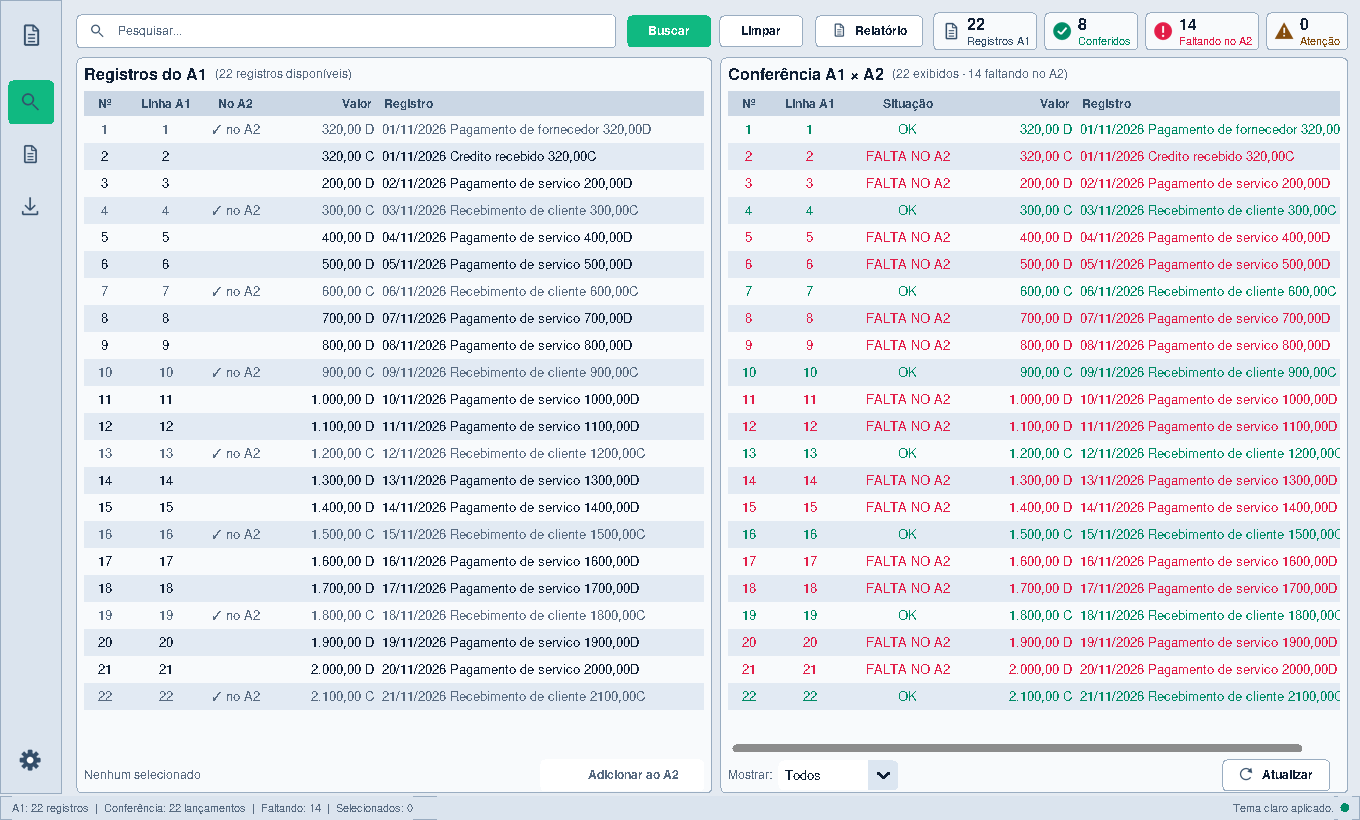
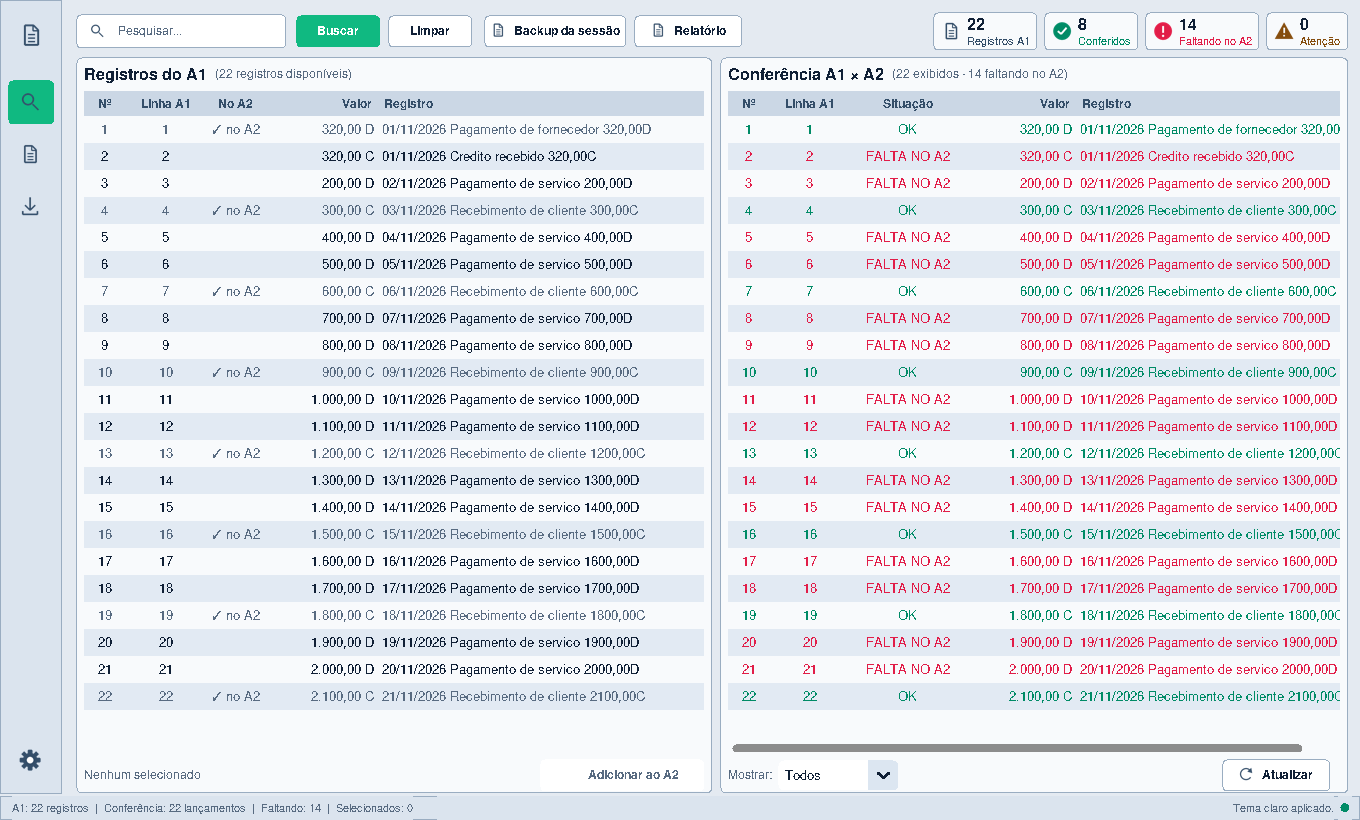
feat: cria backup da sessao com registros e marcacoes

Changed region(s): [[0.1853, 0.0, 0.6794, 0.061]]

diff --git a/main.py b/main.py
@@ -10,6 +10,7 @@ from urllib.parse import urlsplit, parse_qs
 import queue
 import os
 import re
+import shutil
 import socket
 import sys
 import threading
@@ -21,8 +22,8 @@ from datetime import datetime
 from decimal import Decimal
 from html import escape
 from pathlib import Path
-from tempfile import NamedTemporaryFile
-from tkinter import ttk, messagebox
+from tempfile import NamedTemporaryFile, TemporaryDirectory
+from tkinter import ttk, messagebox, simpledialog
 from tkinter import font as tkfont
 from PIL import Image, ImageDraw, ImageFilter, ImageOps, ImageStat, ImageTk
 try:
@@ -1327,7 +1328,8 @@ class App(ctk.CTk):
             kw = dict(fg_color=c("campo"), hover_color=c("campo_hover"),
                       text_color=c("texto"))
         simbolo = {"Aparência": "aparencia", "Adicionar ao A2": "adicionar",
-                   "Atualizar": "atualizar", "Relatório": "arquivo"}.get(texto)
+                   "Atualizar": "atualizar", "Relatório": "arquivo",
+                   "Backup da sessão": "arquivo"}.get(texto)
         imagem = icone(simbolo, "#ffffff" if primario else "cabecalho", 16) if simbolo else None
         b = ctk.CTkButton(pai, text=texto, image=imagem, command=comando, width=largura, height=altura,
                           corner_radius=5, border_width=0 if primario else 1, border_color=c("borda"),
@@ -1894,15 +1896,15 @@ class App(ctk.CTk):
         topo = ctk.CTkFrame(self.aba_busca, fg_color="transparent")
         topo.pack(fill="x", pady=(2, 6))
         topo.grid_columnconfigure(0, weight=1)
-        pesquisa = ctk.CTkFrame(topo, fg_color="transparent")
-        pesquisa.grid(row=0, column=0, sticky="ew", padx=(0, 10))
+        pesquisa = self.barra_pesquisa = ctk.CTkFrame(topo, fg_color="transparent")
+        pesquisa.grid(row=0, column=0, sticky="w", padx=(0, 10))
         pesquisa.grid_columnconfigure(0, weight=1)
         caixa = ctk.CTkFrame(pesquisa, height=34, fg_color=c("campo"), corner_radius=5,
                               border_width=1, border_color=c("borda"))
         caixa.grid(row=0, column=0, sticky="ew")
         ctk.CTkLabel(caixa, text="", image=icone("busca", tamanho=16), width=30, height=32).pack(side="left", padx=(6, 0))
         self.busca_var = tk.StringVar()
-        entrada = self.campo(caixa, self.busca_var, "Pesquisar...", largura=110)
+        entrada = self.campo(caixa, self.busca_var, "Pesquisar...", largura=170)
         self.entrada_busca = entrada
         entrada.configure(height=32)
         entrada.pack(side="left", fill="x", expand=True, padx=(0, 4), pady=1)
@@ -1915,9 +1917,12 @@ class App(ctk.CTk):
         self.busca_var.trace_add("write", self.atualizar_dica_busca)
         self.botao(pesquisa, "Buscar", self.buscar_a1, primario=True, largura=84, altura=32).grid(row=0, column=1, padx=(10, 8))
         self.botao(pesquisa, "Limpar", self.mostrar_todos, largura=84, altura=32).grid(row=0, column=2)
+        self.botao_backup = self.botao(
+            pesquisa, "Backup da sessão", self.criar_backup_sessao, largura=142, altura=32)
+        self.botao_backup.grid(row=0, column=3, padx=(12, 0))
         self.botao_relatorio = self.botao(pesquisa, "Relatório", self.imprimir_relatorio, largura=108, altura=32)
-        self.botao_relatorio.grid(row=0, column=3, padx=(12, 0))
-        indicadores = ctk.CTkFrame(topo, fg_color="transparent")
+        self.botao_relatorio.grid(row=0, column=4, padx=(8, 0))
+        indicadores = self.barra_indicadores = ctk.CTkFrame(topo, fg_color="transparent")
         indicadores.grid(row=0, column=1, sticky="e")
         self.indicador_origem = tk.StringVar(value="0")
         self.indicador_ok = tk.StringVar(value="0")
@@ -1940,6 +1945,7 @@ class App(ctk.CTk):
             ctk.CTkLabel(cartao, text=titulo, height=15, anchor="w", text_color=c(cor),
                          font=(FONTE, 11)).grid(row=1, column=1, sticky="ew", padx=(0, 8), pady=(0, 2))
             self.cartoes_resumo.append(cartao)
+        topo.bind("<Configure>", self.ajustar_barra_pesquisa)
         self.divisao = tk.PanedWindow(self.aba_busca, orient="horizontal", sashwidth=8,
                                      bd=0, sashrelief="flat", showhandle=False,
                                      bg=cm("bg", self.modo), opaqueresize=True)
@@ -1983,6 +1989,18 @@ class App(ctk.CTk):
         self.botao_adicionar.configure(state="disabled")
         self.tree_busca.bind("<Double-1>", self.adicionar_por_duplo_clique)
         self.tree_busca.bind("<<TreeviewSelect>>", self.atualizar_selecao_origem)
+
+    def ajustar_barra_pesquisa(self, evento=None):
+        pesquisa, indicadores = self.barra_pesquisa, self.barra_indicadores
+        topo = pesquisa.master
+        minimo = pesquisa.winfo_reqwidth() + indicadores.winfo_reqwidth()
+        minimo += round(pesquisa._apply_widget_scaling(20))
+        compacta = topo.winfo_width() < minimo
+        linha = 1 if compacta else 0
+        if int(indicadores.grid_info()["row"]) != linha:
+            indicadores.grid(row=linha, column=0 if compacta else 1,
+                             sticky="w" if compacta else "e", pady=(6, 0) if compacta else 0)
+            pesquisa.grid(columnspan=2 if compacta else 1)
 
     def atualizar_dica_busca(self, *args):
         if self.busca_var.get():
@@ -2117,7 +2135,6 @@ class App(ctk.CTk):
         self.campo(topo, self.filtro_a2, "Filtrar lista...").grid(row=0, column=1, sticky="ew")
         self.botao(topo, "Remover", self.remover_a2, perigo=True, largura=140, altura=30).grid(
             row=0, column=2, padx=10)
-        self.botao(topo, "Exportar N.txt", self.exportar, largura=170, altura=30).grid(row=0, column=3)
 
         frame, self.tree_a2 = self._tabela(
             self.aba_a2, [("ordem", "Nº"), ("linha", "Linha A1"), ("texto", "Registro"),
@@ -2161,11 +2178,54 @@ class App(ctk.CTk):
         self.buscar_a1()
         self.status.set(f"{len(sel)} registro(s) removido(s).")
 
-    def exportar(self):
-        os.makedirs(PASTA_REG, exist_ok=True)
-        caminho = os.path.join(PASTA_REG, "N.txt")
-        salvar_linhas(caminho, obter_destino_ordenado())
-        self.status.set(f"✓ Exportado para {os.path.abspath(caminho)}")
+    def criar_backup_sessao(self):
+        """Copia A1, A2 e as marcações para uma pasta identificada pelo usuário."""
+        sugestao = "Usuário - " + datetime.now().strftime("%d-%m-%Y")
+        nome = simpledialog.askstring(
+            "Backup da sessão", "Nome da pasta do backup:",
+            initialvalue=sugestao, parent=self)
+        if nome is None:
+            self.status.set("Backup cancelado.")
+            return
+        nome = nome.strip()
+        reservado = re.fullmatch(r"(?i:CON|PRN|AUX|NUL|COM[1-9]|LPT[1-9])", nome.split(".")[0])
+        if (not nome or nome in {".", ".."} or nome[-1:] in {".", " "} or reservado
+                or any(ord(caractere) < 32 or caractere in '<>:"/\\|?*' for caractere in nome)):
+            messagebox.showerror(
+                "Nome inválido",
+                "Use um nome de pasta válido, sem caracteres especiais ou nomes reservados do Windows.",
+                parent=self)
+            self.status.set("O backup não foi criado: nome inválido.")
+            return
+
+        base = Path(PASTA_REG).absolute()
+        base.mkdir(parents=True, exist_ok=True)
+        destino = base / nome
+        if destino.exists():
+            messagebox.showerror(
+                "Pasta existente",
+                f"A pasta já existe:\n{destino}\n\nEscolha outro nome.", parent=self)
+            self.status.set("O backup não foi criado porque o nome já existe.")
+            return
+
+        # Monta tudo em uma pasta temporária para não deixar exportação parcial.
+        with TemporaryDirectory(prefix="exportacao-", dir=base) as temporaria:
+            pasta_temporaria = Path(temporaria)
+            for origem in (Path(ARQUIVO_ORIGEM), Path(ARQUIVO_DESTINO)):
+                shutil.copy2(origem, pasta_temporaria / origem.name)
+            origem_atencao = Path(ARQUIVO_ATENCAO)
+            if origem_atencao.is_file():
+                shutil.copy2(origem_atencao, pasta_temporaria / origem_atencao.name)
+            else:
+                dados = {"versao": 1, "marcacoes": []}
+                (pasta_temporaria / origem_atencao.name).write_text(
+                    json.dumps(dados, ensure_ascii=False, indent=2) + "\n",
+                    encoding="utf-8")
+            os.replace(pasta_temporaria, destino)
+        self.status.set(f"✓ Backup da sessão criado em {destino}")
+        messagebox.showinfo(
+            "Backup concluído",
+            f"Arquivos copiados para:\n{destino}", parent=self)
 
     #  aba 3: comparação de débitos e créditos
     def _montar_aba_debitos(self):

diff --git a/tests/test_interface.py b/tests/test_interface.py
@@ -1,5 +1,6 @@
 # Testes dos controles e interações da interface usando dados temporários; exigem sessão gráfica.
 import os
+import json
 import gc
 import sys
 import tempfile
@@ -675,6 +676,10 @@ class InterfaceTests(unittest.TestCase):
             self.assertEqual(self.app.tree_busca.winfo_rootx(), x_tabela)
             self.assertEqual(self.app.botao_relatorio.winfo_rooty(),
                              self.app.entrada_busca.winfo_rooty())
+            self.assertEqual(self.app.botao_backup.winfo_rooty(),
+                             self.app.entrada_busca.winfo_rooty())
+            self.assertLess(self.app.botao_backup.winfo_rootx(),
+                            self.app.botao_relatorio.winfo_rootx())
 
     def test_aparencia_permanece_aberta_e_controles_funcionam_no_menu(self):
         self.app.alternar_aparencia()
@@ -692,6 +697,63 @@ class InterfaceTests(unittest.TestCase):
         self.app.update()
         self.assertFalse(self.app.painel_aparencia.winfo_ismapped())
         self.assertFalse(self.app.menu_expandido)
+
+    def test_backup_da_sessao_cria_pasta_com_a1_a2_e_marcacoes(self):
+        self.app.atencoes = {main.chave_atencao(1, "Pagamento -100,00D")}
+        main.salvar_atencoes(self.app.atencoes)
+        nome = "Maria - 12-11-2026"
+        with patch.object(main.simpledialog, "askstring", return_value=nome) as pergunta, \
+                patch.object(main.messagebox, "showinfo") as aviso:
+            self.app.criar_backup_sessao()
+
+        destino = Path("No") / nome
+        self.assertEqual((destino / "a1.txt").read_bytes(), Path("a1.txt").read_bytes())
+        self.assertEqual((destino / "a2.txt").read_bytes(), Path("a2.txt").read_bytes())
+        self.assertEqual((destino / "atencao.json").read_bytes(),
+                         Path("No/atencao.json").read_bytes())
+        self.assertRegex(pergunta.call_args.kwargs["initialvalue"],
+                         r"^Usuário - \d{2}-\d{2}-\d{4}$")
+        aviso.assert_called_once()
+        self.assertIn(nome, self.app.status.get())
+
+    def test_backup_da_sessao_sem_marcacoes_inclui_json_vazio_valido(self):
+        nome = "João - 12-11-2026"
+        with patch.object(main.simpledialog, "askstring", return_value=nome), \
+                patch.object(main.messagebox, "showinfo"):
+            self.app.criar_backup_sessao()
+        dados = json.loads((Path("No") / nome / "atencao.json").read_text(encoding="utf-8"))
+        self.assertEqual(dados, {"versao": 1, "marcacoes": []})
+
+    def test_backup_da_sessao_recusa_nome_invalido_sem_criar_pasta(self):
+        with patch.object(main.simpledialog, "askstring", return_value="../fora"), \
+                patch.object(main.messagebox, "showerror") as aviso:
+            self.app.criar_backup_sessao()
+        aviso.assert_called_once()
+        self.assertFalse(Path("fora").exists())
+
+    def test_backup_preserva_pasta_existente_e_cancelamento_nao_cria_arquivos(self):
+        destino = Path("No/Maria")
+        destino.mkdir(parents=True)
+        (destino / "a1.txt").write_text("backup anterior", encoding="utf-8")
+        with patch.object(main.simpledialog, "askstring", return_value="Maria"), \
+                patch.object(main.messagebox, "showerror") as aviso:
+            self.app.criar_backup_sessao()
+        aviso.assert_called_once()
+        self.assertEqual((destino / "a1.txt").read_text(), "backup anterior")
+        antes = set(Path("No").iterdir())
+        with patch.object(main.simpledialog, "askstring", return_value=None):
+            self.app.criar_backup_sessao()
+        self.assertEqual(set(Path("No").iterdir()), antes)
+
+    def test_backup_falha_de_copia_nao_publica_pasta_parcial(self):
+        originais = [Path(p).read_bytes() for p in ("a1.txt", "a2.txt")]
+        with patch.object(main.simpledialog, "askstring", return_value="Falha"), \
+                patch.object(main.shutil, "copy2", side_effect=OSError("disco cheio")):
+            with self.assertRaises(OSError):
+                self.app.criar_backup_sessao()
+        self.assertFalse(Path("No/Falha").exists())
+        self.assertFalse(list(Path("No").glob("exportacao-*")))
+        self.assertEqual([Path(p).read_bytes() for p in ("a1.txt", "a2.txt")], originais)
 
     def test_redimensionamento_mantem_tabelas_alinhadas_e_controles_visiveis(self):
         def conferir(widget):

diff --git a/README.md b/README.md
@@ -28,7 +28,7 @@ a situação é atualizada ao lado, mantendo a pesquisa. Arraste a divisória ce
 para ajustar o espaço de cada painel.
 
 A faixa superior reúne, na mesma linha, o campo **Pesquisar**, os botões
-**Buscar**, **Limpar** e **Relatório** e os quatro contadores compactos:
+**Buscar**, **Limpar**, **Backup da sessão** e **Relatório** e os quatro contadores compactos:
 
 | Indicador | Símbolo | O que mostra |
 | --- | --- | --- |
@@ -37,7 +37,7 @@ A faixa superior reúne, na mesma linha, o campo **Pesquisar**, os botões
 | Faltando no A2 | Alerta vermelho | Lançamentos exibidos que ainda faltam no A2. |
 | Atenção | Triângulo amarelo | Marcações de atenção visíveis. |
 
-O campo de pesquisa usa a largura restante da faixa. Os contadores ficam
+O campo de pesquisa tem largura compacta para acomodar os botões. Os contadores ficam
 agrupados, com ícones próximos dos números e dos textos, sem esticar os cartões
 por toda a tela. O título grande acima da pesquisa foi removido para liberar
 altura às tabelas. Os contadores da conferência acompanham a pesquisa e o filtro
@@ -50,6 +50,9 @@ e só é habilitado com uma seleção. **Atualizar** fica no rodapé da conferê
 o filtro **Todos / Débitos / Créditos** fica à esquerda nesse mesmo rodapé.
 **Relatório** fica junto da pesquisa e usa a pesquisa confirmada e o filtro de
 tipo da conferência.
+**Backup da sessão** fica imediatamente antes de **Relatório** e guarda uma
+cópia dos registros e das marcações. Em janelas estreitas, os contadores passam
+para a segunda linha para manter os botões e a pesquisa acessíveis.
 
 As linhas de 27 pixels, com fonte de 13 pixels, permitem exibir mais registros.
 As tabelas crescem com a janela até os botões inferiores; o rodapé global reúne
@@ -95,7 +98,7 @@ central para ampliar um dos painéis.
 ### Lista A2
 
 Mostra os registros escolhidos, mantendo a referência original do A1. Permite
-filtrar, remover e exportar a seleção.
+filtrar e remover registros. O backup completo da sessão fica na tela principal.
 
 ![Lista A2 na interface atual, com valores e referências das linhas do A1](docs/images/lista-a2.png)
 
@@ -287,8 +290,8 @@ do repositório; ao editar manualmente, salve como CRLF e sem BOM.
 ## Atualizar a cópia no computador
 
 Uma atualização no GitHub não substitui o programa já salvo no computador. A versão
-atual tem menu lateral recolhível, pesquisa e **Relatório** na mesma linha dos
-quatro contadores, além das duas tabelas lado a lado.
+atual tem menu lateral recolhível, pesquisa, **Backup da sessão** e **Relatório**
+na mesma linha dos quatro contadores, além das duas tabelas lado a lado.
 
 Se você clonou o projeto com Git, feche o programa e execute na pasta do projeto:
 
@@ -316,8 +319,9 @@ mouse sobre ele para ver **Buscar e comparar**, **Lista A2**, **Captura** e
 **Aparência**; ao sair, o menu recolhe após uma breve pausa. A expansão se sobrepõe
 à área de trabalho, sem deslocar as tabelas. Os botões também recebem foco com Tab.
 **Aparência** abre os seletores de tema e cor ao lado do menu e permanece aberta
-até você clicar novamente no botão. Na busca, **Relatório** fica na mesma linha
-de **Buscar**, **Limpar** e dos quatro indicadores com seus ícones e cores.
+até você clicar novamente no botão. Na busca, **Backup da sessão** e **Relatório**
+ficam na mesma linha de **Buscar**, **Limpar** e dos quatro indicadores com seus
+ícones e cores.
 
 1. Preencha `a1.txt` com um registro por linha. Linhas vazias são ignoradas,
    preservando a numeração original. Use UTF‑8; arquivos UTF‑8 com BOM também são aceitos.
@@ -345,8 +349,15 @@ de **Buscar**, **Limpar** e dos quatro indicadores com seus ícones e cores.
    é aberto pelo caminho nativo, aceitando pastas com espaços e acentos. Se a
    abertura automática falhar, o programa avisa e mostra o caminho do HTML salvo
    para você abri-lo manualmente em um navegador.
-5. Em **Lista A2**, filtre, remova registros ou exporte a seleção para `No/N.txt`.
-   A exportação contém todo o A2, na ordem das linhas originais.
+5. Para guardar a sessão, clique em **Backup da sessão**, à esquerda de
+   **Relatório**. O programa sugere `Usuário - DD-MM-AAAA`; substitua “Usuário”
+   pelo nome desejado ou edite o nome completo. Dentro de `No/`, ele cria uma
+   pasta com esse nome e copia `a1.txt`, `a2.txt` e `atencao.json`. Se ainda não
+   houver marcações, o backup inclui um `atencao.json` vazio e válido. Uma pasta
+   existente não é substituída. Para recuperar a sessão em outra cópia do
+   programa, feche o aplicativo e copie esses três arquivos de volta para seus
+   locais: `a1.txt` e `a2.txt` na pasta do programa e `atencao.json` em `No/`.
+6. Em **Lista A2**, filtre ou remova registros. A ordem original do A1 é mantida.
 
 Para marcar um lançamento como **Atenção**, dê dois cliques em qualquer célula
 da linha na tabela **Conferência A1 × A2** (painel da direita). A linha ganha

diff --git a/docs/ARQUIVOS.md b/docs/ARQUIVOS.md
@@ -53,7 +53,7 @@ Os componentes distribuídos com o Tesseract estão descritos aqui; seus arquivo
 | `docs/images/tema-claro.png` | Captura atual da interface em tema claro para a documentação. |
 | `iniciar.bat` | Inicializador do Windows: verifica o uv, sincroniza dependências com PaddleOCR, prepara modelos e abre main.py; tenta a instalação básica se o preparo opcional falhar. |
 | `fila_ocr.py` | Mantém a fila persistente em SQLite, fotos temporárias separadas, estados, campos, prévias e exclusividade de processamento por pasta. |
-| `main.py` | Implementa o menu lateral recolhível, a interface desktop, leitura e gravação de A1/A2, comparação financeira, marcações de atenção, relatório e captura com OCR. |
+| `main.py` | Implementa o menu lateral recolhível, a interface desktop, leitura e gravação de A1/A2, backup da sessão, comparação financeira, marcações de atenção, relatório e captura com OCR. |
 | `ocr_paddle.py` | Adaptador opcional do PaddleOCR: inicializa modelos sob demanda, organiza palavras em linhas e sinaliza leituras incertas. |
 | `ocr_runtime.py` | Executa OCR em processo separado e reutilizável, limita o tempo de leitura e encerra processos travados sem bloquear a janela. |
 | `pyproject.toml` | Define os metadados, a versão mínima de Python, as dependências principais e o extra opcional paddle. |
